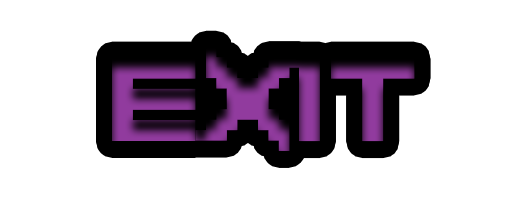
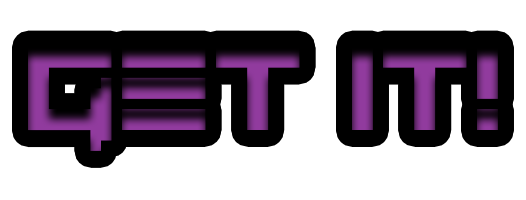
Created new GFX for buttons in menu

diff --git a/src/main/java/eu/theritual/wrathofbahrott/media/MediaOperator.java b/src/main/java/eu/theritual/wrathofbahrott/media/MediaOperator.java
@@ -6,6 +6,7 @@ import javafx.scene.image.ImageView;
 import javafx.scene.layout.*;
 import javafx.scene.media.Media;
 import javafx.scene.media.MediaPlayer;
+
 import java.net.MalformedURLException;
 import java.net.URISyntaxException;
 import java.net.URL;
@@ -34,6 +35,10 @@ public class MediaOperator {
         images.put("exitOut", "gfx/exitOut.png");
         images.put("startOn", "gfx/startOn.png");
         images.put("startOut", "gfx/startOut.png");
+        images.put("creditsOn", "gfx/creditsOn.png");
+        images.put("creditsOut", "gfx/creditsOut.png");
+        images.put("optionsOn", "gfx/optionsOn.png");
+        images.put("optionsOut", "gfx/optionsOut.png");
     }
 
     private URL getSoundUrl(String name) {
@@ -106,8 +111,10 @@ public class MediaOperator {
 
     public Image getImage(String name, double width, double height) {
         String imgFile = images.get(name);
+        System.out.println(" ->>>>>>>>" + imgFile);
         try {
             imgFile = MediaOperator.class.getResource(imgFile).toURI().toURL().toString();
+            System.out.println(" ->>>>>>>>" + imgFile);
         } catch (URISyntaxException e) {
             ViewOperator.error("URISyntaxException", "Can't load image (URI PROBLEM)", e.toString());
         } catch (MalformedURLException e) {

diff --git a/src/main/java/eu/theritual/wrathofbahrott/viewoperator/MainMenuController.java b/src/main/java/eu/theritual/wrathofbahrott/viewoperator/MainMenuController.java
@@ -59,8 +59,14 @@ public class MainMenuController {
         ImageView exitButton = createMenuButton("exit");
         exitButton.addEventHandler(MouseEvent.MOUSE_CLICKED, this::exitAction);
         ImageView startButton = createMenuButton("start");
-        startButton.addEventHandler(MouseEvent.MOUSE_CLICKED, t -> System.out.println("Startuję"));
+        startButton.addEventHandler(MouseEvent.MOUSE_CLICKED, t -> System.out.println("STARTING GAME!"));
+        ImageView optionsButton = createMenuButton("options");
+        optionsButton.addEventHandler(MouseEvent.MOUSE_CLICKED, t -> System.out.println("OPENING OPTIONS"));
+        ImageView creditsButton = createMenuButton("credits");
+        creditsButton.addEventHandler(MouseEvent.MOUSE_CLICKED, t -> System.out.println("SHOWING CREDITS"));
         menuList.getChildren().add(startButton);
+        menuList.getChildren().add(optionsButton);
+        menuList.getChildren().add(creditsButton);
         menuList.getChildren().add(exitButton);
         menuPane.setCenter(menuList);
         BorderPane.setAlignment(menuList, Pos.TOP_CENTER);
